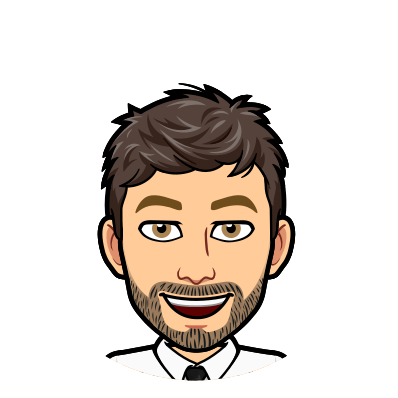
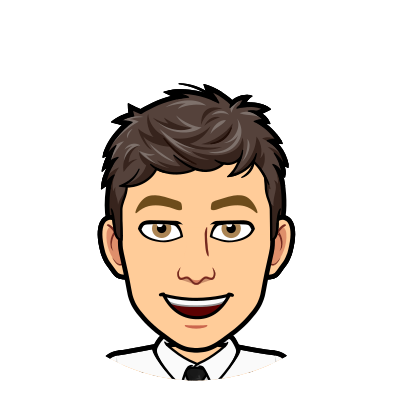
update headline and images

Changed region(s): [[0.3015, 0.6633, 0.6633, 0.9045], [0.6633, 0.6332, 0.6935, 0.6935]]

diff --git a/index.html b/index.html
@@ -77,7 +77,7 @@
         <!-- About me -->
         <section class="about-me" id="about">
            <h2 class="section__title section__title--about">Who I am</h2>
-           <p class="section__subtitle section__subtitle--about">Front-End Developer and gym buff from USA</p>
+           <p class="section__subtitle section__subtitle--about">Front-End Developer with a deep appreciation for the outdoors.</p>
            
            <div class="about-me__body">
                <p>I'm a web developer and problem solver based out of Tampa, FL. 

diff --git a/css/style.css b/css/style.css
@@ -122,6 +122,7 @@ h3 { font-size: var(--fs-h3) }
 
 .section__subtitle--intro,
 .section__subtitle--about {
+    font-size: 1.25rem;
     background: var(--color-accent);
     padding: .25em 1em;
     font-family: var(--ff-secondary);
